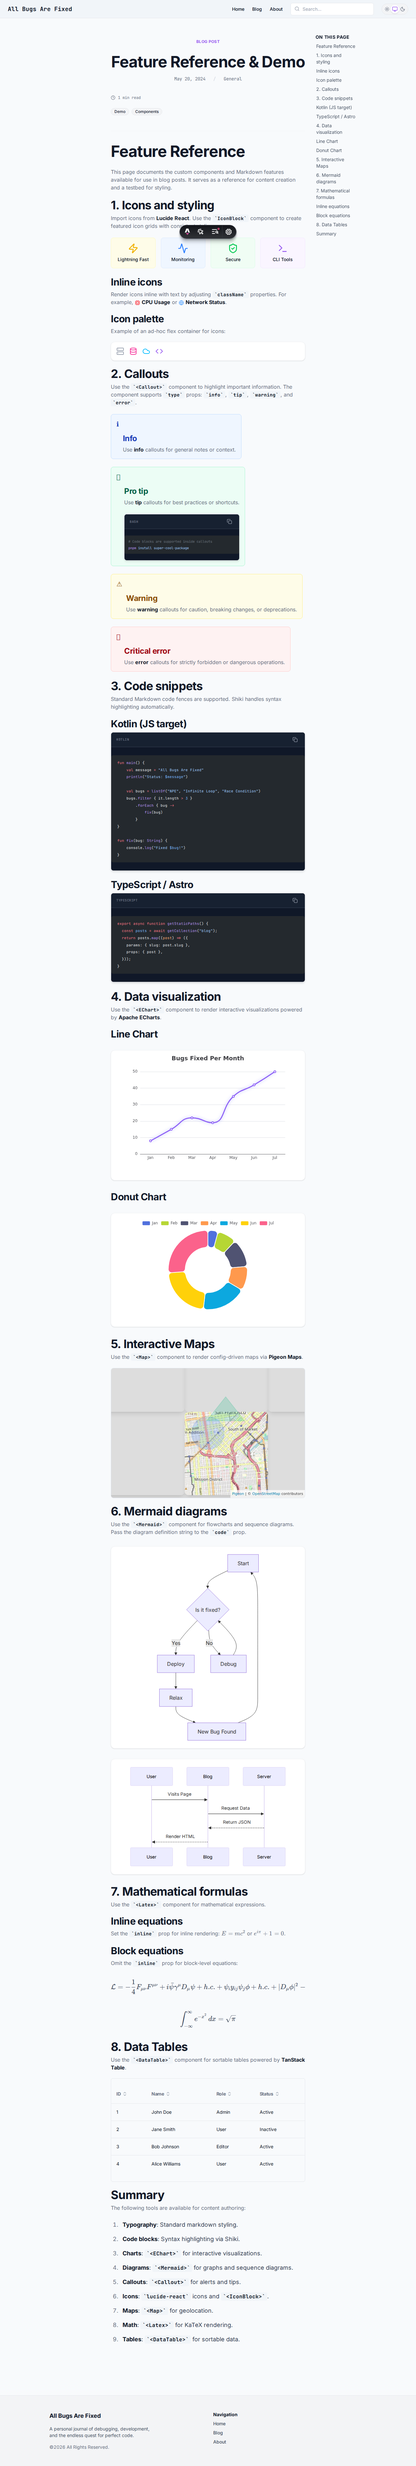
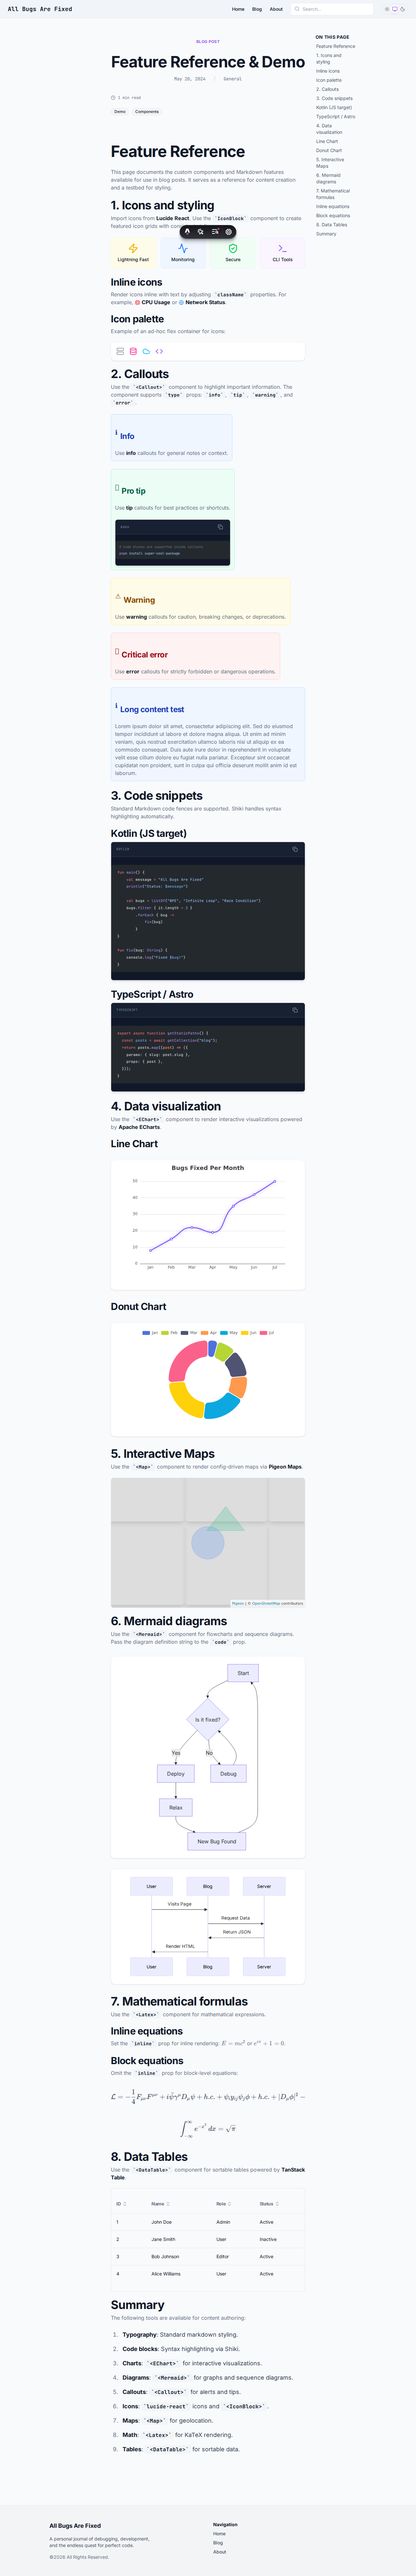
Refactor styling and content config
- Implement `rehype-slug` for heading anchors.
- Refactor `CodeBlock` to Astro component for better styling and copy functionality.
- Update `Callout` and `Heading` components for improved spacing and layout.
- Fix content collection schema errors by setting `base` in glob loader.
- Fix Mermaid syntax in tech demo and add validation script.
- Adjust global list spacing.
- Fix lint errors.

diff --git a/src/components/ui/callout.tsx b/src/components/ui/callout.tsx
@@ -3,7 +3,7 @@ import { tv, type VariantProps } from 'tailwind-variants'
 import { cn } from '../../lib/ui'
 
 const calloutStyles = tv({
-  base: 'p-3 sm:p-4 my-6 rounded-lg border flex gap-3 w-fit max-w-full',
+  base: 'p-2 sm:p-3 my-6 rounded-lg border flex flex-col gap-2 w-fit max-w-full',
   defaultVariants: {
     type: 'info',
   },
@@ -35,12 +35,12 @@ export function Callout({ className, title, type = 'info', children, ...props }:
 
   return (
     <div className={cn(calloutStyles({ type }), className)} {...props}>
-      <div className="flex-shrink-0 select-none text-xl">{icon}</div>
-      <div className="w-full min-w-0">
-        {title && <h3 className="font-bold mb-1 text-inherit">{title}</h3>}
-        <div className="prose prose-sm dark:prose-invert max-w-none text-inherit prose-p:my-0 prose-a:text-current">
-          {children}
-        </div>
+      <div className="flex items-center gap-2">
+        <div className="flex-shrink-0 select-none text-xl leading-none">{icon}</div>
+        {title && <h3 className="font-bold text-inherit leading-tight m-0">{title}</h3>}
+      </div>
+      <div className="w-full min-w-0 prose prose-sm dark:prose-invert max-w-none text-inherit prose-p:my-0 prose-a:text-current">
+        {children}
       </div>
     </div>
   )

diff --git a/src/components/ui/heading.tsx b/src/components/ui/heading.tsx
@@ -3,7 +3,7 @@ import { tv, type VariantProps } from 'tailwind-variants'
 import { cn } from '../../lib/ui'
 
 const headingStyles = tv({
-  base: 'font-bold tracking-tight text-gray-900 dark:text-brand-text',
+  base: 'font-bold tracking-tight text-gray-900 dark:text-brand-text scroll-mt-20',
   defaultVariants: {
     level: 1,
   },
@@ -23,7 +23,20 @@ export interface HeadingProps extends React.HTMLAttributes<HTMLHeadingElement>, 
   readonly as?: 'h1' | 'h2' | 'h3' | 'h4' | 'h5' | 'h6'
 }
 
-export function Heading({ className, level, as, ...props }: Readonly<HeadingProps>) {
+export function Heading({ className, level, as, children, id, ...props }: Readonly<HeadingProps>) {
   const Component = as ?? (`h${level || 1}` as React.ElementType)
-  return <Component className={cn(headingStyles({ level }), className)} {...props} />
+  return (
+    <Component id={id} className={cn(headingStyles({ level }), 'group', className)} {...props}>
+      {children}
+      {id && (
+        <a
+          href={`#${id}`}
+          className="ml-2 text-gray-400 opacity-0 group-hover:opacity-100 transition-opacity no-underline font-normal"
+          aria-label="Link to this section"
+        >
+          #
+        </a>
+      )}
+    </Component>
+  )
 }

diff --git a/src/styles/global.css b/src/styles/global.css
@@ -125,5 +125,9 @@
     .dark & code {
       @apply text-brand-accent bg-[rgba(255,255,255,0.1)];
     }
+
+    ol > li {
+      margin-bottom: 0.25em;
+    }
   }
 }
